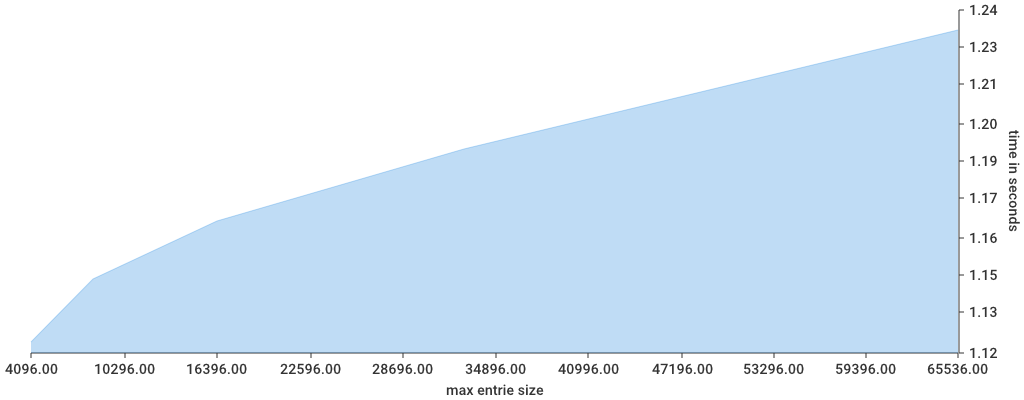
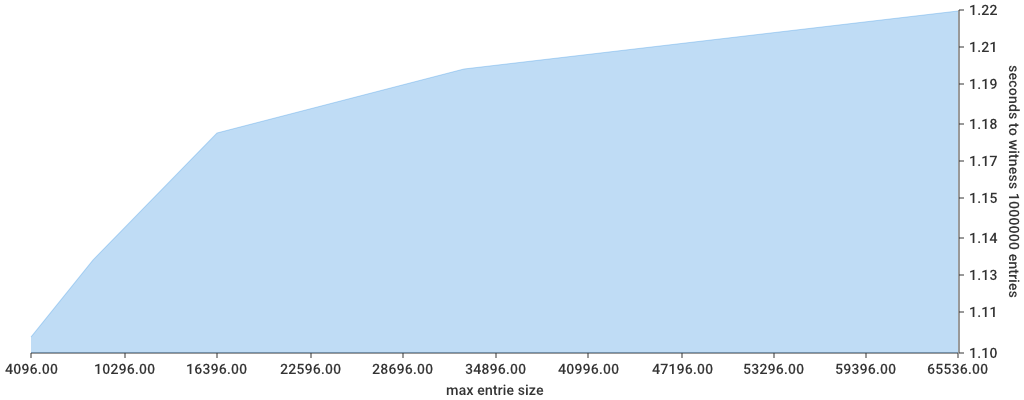
updated time benchmark

Changed region(s): [[0.0625, 0.03, 0.9375, 0.75], [0.9375, 0.15, 1.0, 0.75], [0.0312, 0.75, 0.0625, 0.84]]

diff --git a/benchmark-time.go b/benchmark-time.go
@@ -49,7 +49,7 @@ func drawChart(res http.ResponseWriter, req *http.Request) {
 			Style:     chart.StyleShow(),
 		},
 		YAxis: chart.YAxis{
-			Name:      "time in seconds",
+			Name:      "seconds to witness 1000000 entries",
 			NameStyle: chart.StyleShow(),
 			Style:     chart.StyleShow(),
 		},

diff --git a/README.md b/README.md
@@ -51,17 +51,15 @@ func main() {
 
 # Performance
 
-## Constant witness time: O(1)
-
-Time to witness 1000000 data entries:
+### Constant witness time: O(1)
 
 ![Benchmark Time](https://github.com/f483/dejavu/raw/master/benchmark-time.png)
 
+### Linear memory usage: O(n)
 
-## Linear memory usage per stored entrie: O(n)
-
-Memory usage for 
 ![Benchmark Memory](https://github.com/f483/dejavu/raw/master/benchmark-memory.png)
+
+
 
 # Support
 
